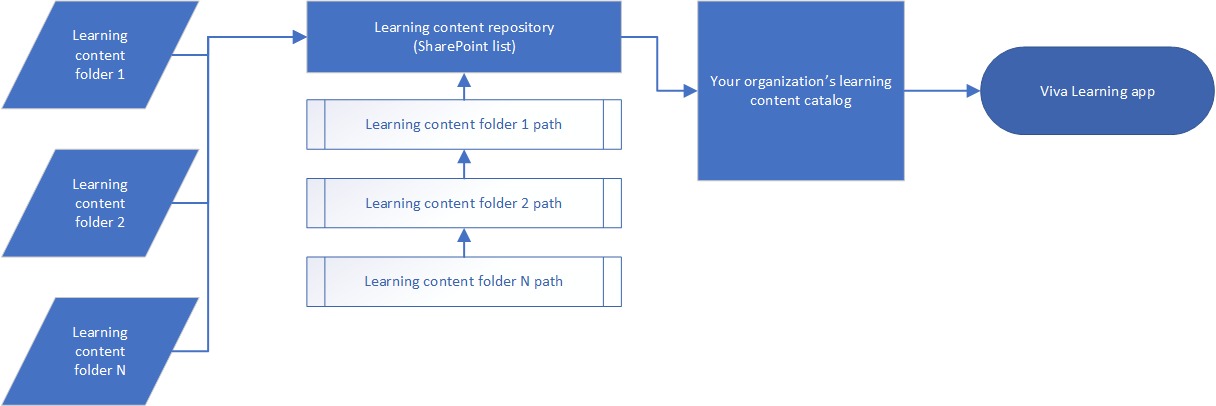
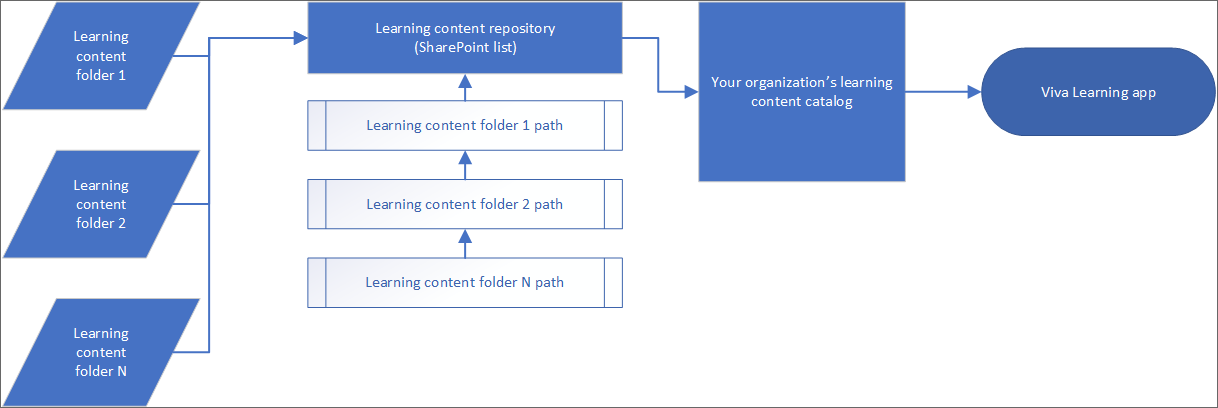
fancied up infographic

diff --git a/Viva/learning/configure-sharepoint-content-source.md b/Viva/learning/configure-sharepoint-content-source.md
@@ -29,7 +29,7 @@ You can configure SharePoint as a learning content source to make your organizat
 
 The knowledge admin (or global administrator) provides a site URL to where the [Learning Service](configure-sharepoint-content-source.md#learning-service) can create an empty centralized location in the form of a structured SharePoint list. This list is called the Learning App Content Repository. Your organization can use this list to house links to cross-company SharePoint folders that contain learning content. Admins are responsible for collecting and curating a list of URLs for folders. These folders should only include content that can be made available in Viva Learning.
 
-![Infographic showing the process of getting content from folders to a SharePoint list into Viva Learning, as described in the paragraph above](../media/learning/sharepoint-dataflow.png)
+![Infographic showing the process of getting content from folders to a SharePoint list into Viva Learning, as described in the paragraph above](../media/learning/sp-dataflow-infographic.png)
 
 Viva Learning supports the following document types:
 
